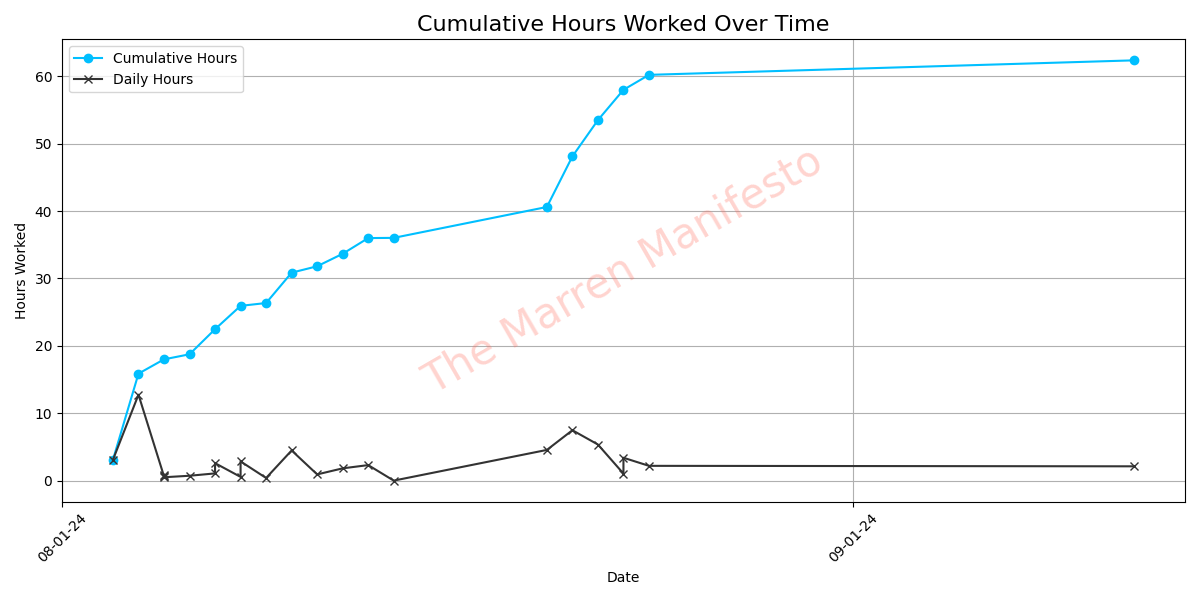
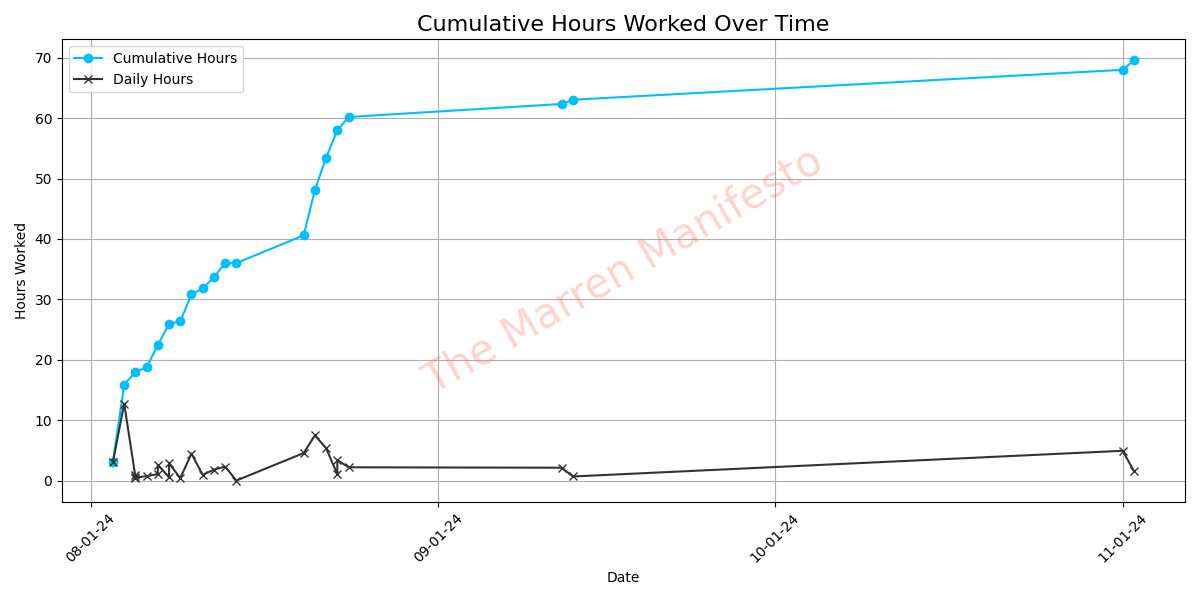
Update profile README plot and project list

diff --git a/README.md b/README.md
@@ -1,8 +1,8 @@
 <div align="center">
     <h2>Welcome to my GitHub</h1>
     <p>Hi 👋, my name's <a href="https://themarrenmanifesto.com" target="_blank">Luke</a>!</p>
-    <p>I'm currently a senior in Econometrics with minors in Computer Science and Statistics at UIUC 🎓.</p>
-    <p>I'm on the hunt 🏹 for <a href="https://www.linkedin.com/in/luke-marren-aa9912206/" target="_blank">work</a> in data analytics, data science, or SWE ⌨.</p>
+    <p>I'm currently a senior in Econometrics with a minor in Statistics at UIUC 🎓.</p>
+    <p>I'm on the hunt 🏹 for <a href="https://www.linkedin.com/in/luke-marren-aa9912206/" target="_blank">work</a> in data science ⌨.</p>
     <p>Thanks for visiting my profile 😊!</p>
     <h2>My Projects</h2>
     <table>
@@ -13,13 +13,19 @@
             <td><a href="https://github.com/lmarren1/mastery-tracker" target="_blank">Mastery Tracker</a><p>Tool for tracking 10,000 hours of study/practice in software development.</p></td>
         </tr>
         <tr>
+            <td><a href="https://github.com/lmarren1/r-guide-notes" target="_blank">R Guide Notes</a><p>My notes on R books I'm currently reading.</p></td>
+        </tr>
+        <tr>
+            <td><a href="https://github.com/lmarren1/leetcode-solutions" target="_blank">Leetcode Solutions</a><p>My 30 minute solutions to leetcode problems from Sean Prashad's <a href="https://seanprashad.com/leetcode-patterns/" target="_blank">list</a></p></td>
+        </tr>
+        <tr>
             <td><a href="https://github.com/lmarren1/the-marren-manifesto/" target="_blank">The Marren Manifesto</a><p>My personal blog.</p></td>
         </tr>
     </table>
     <h2>My Software Development Progress</h2>
     <p>Last Updated:<br>September 12th</p>
     <a href="https://themarrenmanifesto.com" target="_blank"><img src="cumulative-hours-plot.png"></img></a>
-    <p>61 / 10,000 hours (0.61%)</p>
+    <p>70 / 10,000 hours (0.70%)</p>
     <h2>Contacts / Content</h2>
     <a href="https://www.linkedin.com/in/luke-marren-aa9912206/" target="_blank"><p>LinkedIn</p></a>
     <a href="https://themarrenmanifesto.com"><p>My Blog</p></a>
